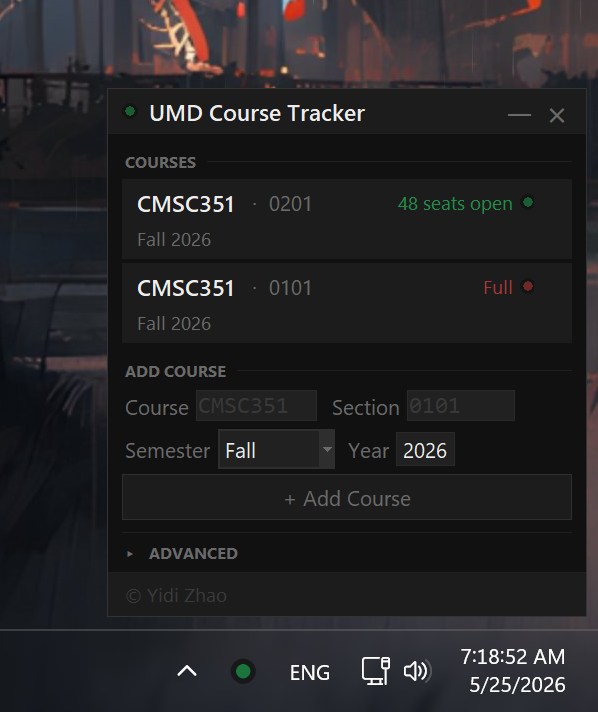
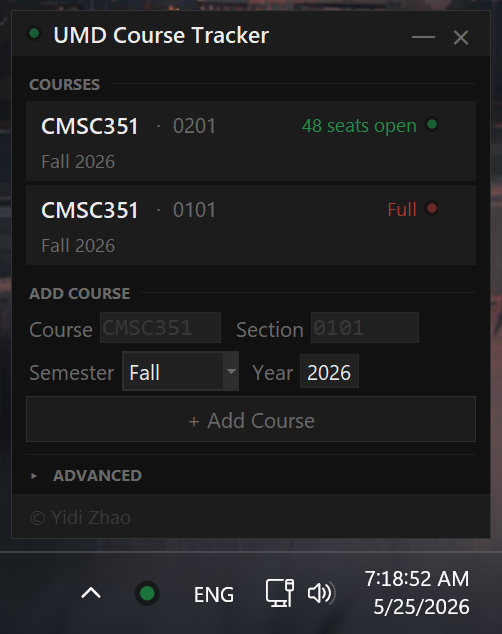
Redesign README: smaller screenshot, app-style download button, cleaner copy

diff --git a/README.md b/README.md
@@ -1,53 +1,67 @@
 <div align="center">
 
-![UMD Course Tracker](assets/image.png)
+# UMD Course Tracker
+
+A Windows taskbar tray indicator that monitors UMD Testudo seat availability<br/>and notifies you the moment a seat opens.
 
 <br/>
 
-[![Download](https://img.shields.io/github/v/release/Yidiiiz/UMD-Course-Tracker?label=Download%20for%20Windows&style=for-the-badge&color=22c55e&logo=windows&logoColor=white)](https://github.com/Yidiiiz/UMD-Course-Tracker/releases/latest/download/UMDCourseTracker.exe)
+<img src="assets/image.png" width="300"/>
 
-*No installation · No Python · Windows 10 & 11*
+<br/><br/>
+
+<a href="https://github.com/Yidiiiz/UMD-Course-Tracker/releases/latest/download/UMDCourseTracker.exe">
+  <img src="assets/download.svg" alt="Download for Windows"/>
+</a>
+
+<sub>Windows 10 & 11 &nbsp;·&nbsp; No installation required &nbsp;·&nbsp; No Python needed</sub>
 
 </div>
 
-<br/>
+---
+
+## What it is
+
+UMD Course Tracker sits quietly in your taskbar as a small colored dot — green when seats are open, red when full. The moment a tracked section flips from closed to open, a Windows notification fires and clicking it takes you straight to the Testudo course page.
+
+It is designed to live on your taskbar as a persistent indicator, not just run in the background.
 
 ---
 
-### Getting Started
+## Getting Started
 
 **1 — Download and run**
 
-Click the button above to download `UMDCourseTracker.exe`, then double-click it to launch. Nothing to install.
+Download `UMDCourseTracker.exe` above and double-click it. Nothing to install.
 
-**2 — Pin it to your taskbar** *(do this first)*
+**2 — Pin to your taskbar** *(important — do this first)*
 
-Windows hides new tray icons in the overflow menu by default — you won't see notifications unless the icon is visible.
+Windows hides new tray icons in the overflow menu by default. To keep the tracker visible as a taskbar indicator:
 
-- **Windows 11** — drag the 🟡 icon out of the `^` overflow area onto your taskbar
-- **Windows 10** — right-click the taskbar → *Taskbar settings* → *Select which icons appear on the taskbar* → enable **UMD Course Tracker**
+- **Windows 11** — drag the dot icon out of the `∧` overflow area onto your taskbar
+- **Windows 10** — right-click the taskbar → *Taskbar settings* → *Select which icons appear on the taskbar* → turn on **UMD Course Tracker**
 
 **3 — Add your courses**
 
-Left-click the tray icon → enter a course ID (e.g. `CMSC351`) → pick a semester → **+ Add Course**
+Left-click the tray icon to open the panel → enter a course ID (e.g. `CMSC351`) → pick a semester → **+ Add Course**
 
 ---
 
-### How It Works
+## Usage
 
-| Tray color | Meaning |
+| Action | How |
 |:---|:---|
-| 🟢 Green | At least one seat is open |
-| 🔴 Red | All sections full |
-| 🟡 Yellow | Checking / paused / error |
-
-The app polls Testudo every 60 seconds. The moment a closed section flips open, a Windows notification fires and clicking it opens the course page in your browser.
+| Open panel | Left-click the tray icon |
+| Add a course | Enter course ID + optional section, pick semester, click **+ Add Course** |
+| Remove a course | Hover a card → click the **×** |
+| Open on Testudo | Click anywhere on a course card |
+| Tray icon | 🟢 Seats open &nbsp; 🔴 Full &nbsp; 🟡 Checking / error |
 
 ---
 
-### Settings
+## Settings
 
-Open the panel and expand **Advanced** at the bottom:
+Expand **Advanced** at the bottom of the panel:
 
 | Setting | Default |
 |:---|:---|
@@ -56,13 +70,13 @@ Open the panel and expand **Advanced** at the bottom:
 | Open on Windows startup | On |
 | Theme | Follows system dark / light mode |
 
-Your course list and settings are stored in `%APPDATA%\UMD Course Tracker\` — never next to the `.exe`.
+Your data (`courses.json`, `settings.json`) is stored in `%APPDATA%\UMD Course Tracker\` — never next to the `.exe`.
 
 ---
 
-### Term Codes
+## Term Codes
 
-The app picks the next upcoming semester automatically. You can override it when adding a course.
+The app selects the next upcoming semester automatically. You can override it when adding a course.
 
 | Code | Semester |
 |:---|:---|
@@ -74,14 +88,14 @@ The app picks the next upcoming semester automatically. You can override it when
 
 ---
 
-### Build from Source
+## Build from Source
 
 ```bat
 git clone https://github.com/Yidiiiz/UMD-Course-Tracker.git
 cd UMD-Course-Tracker
-setup.bat         :: install dependencies
-build.bat         :: produces dist\UMDCourseTracker.exe
+setup.bat              :: install dependencies
+build.bat              :: produces dist\UMDCourseTracker.exe
 python src\tracker.py  :: run from source
 ```
 
-Dependencies: `requests` · `beautifulsoup4` · `pystray` · `Pillow` · `plyer` · `pyinstaller`
+**Dependencies:** `requests` · `beautifulsoup4` · `pystray` · `Pillow` · `plyer` · `pyinstaller`